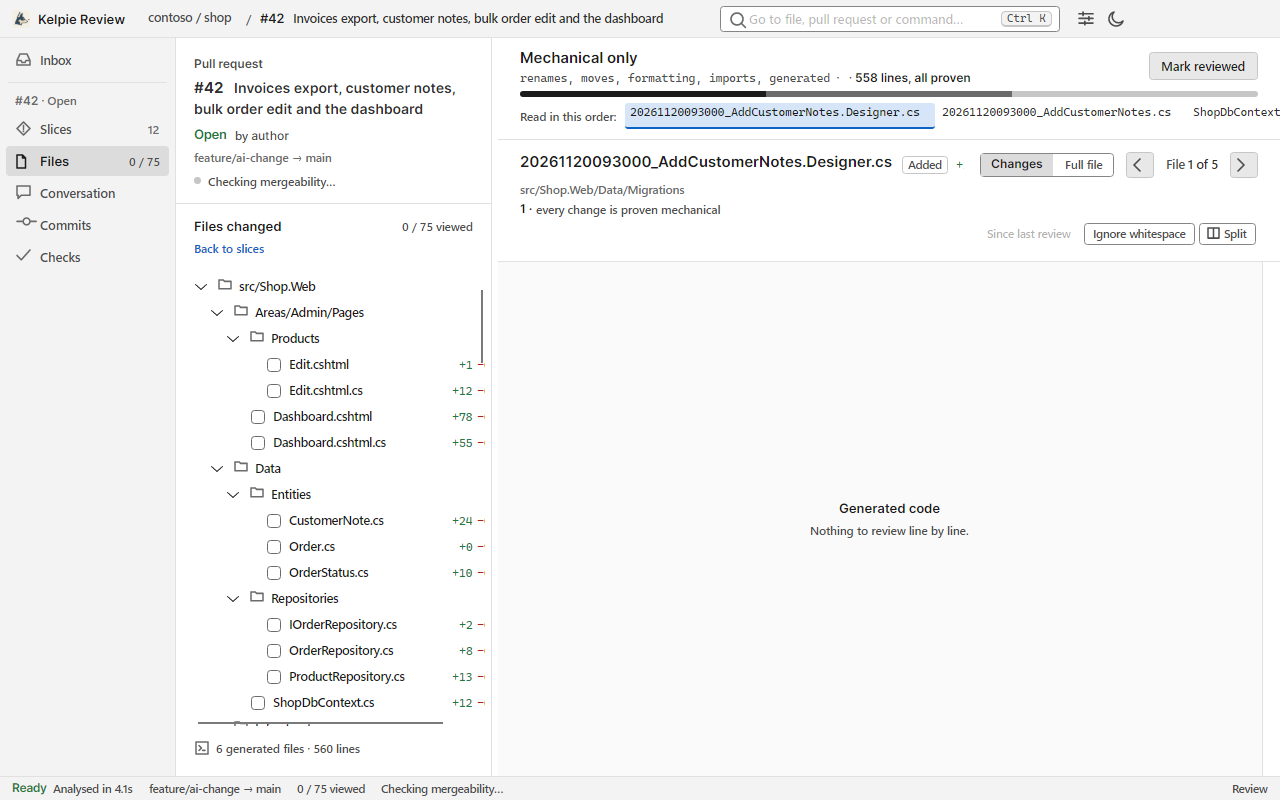
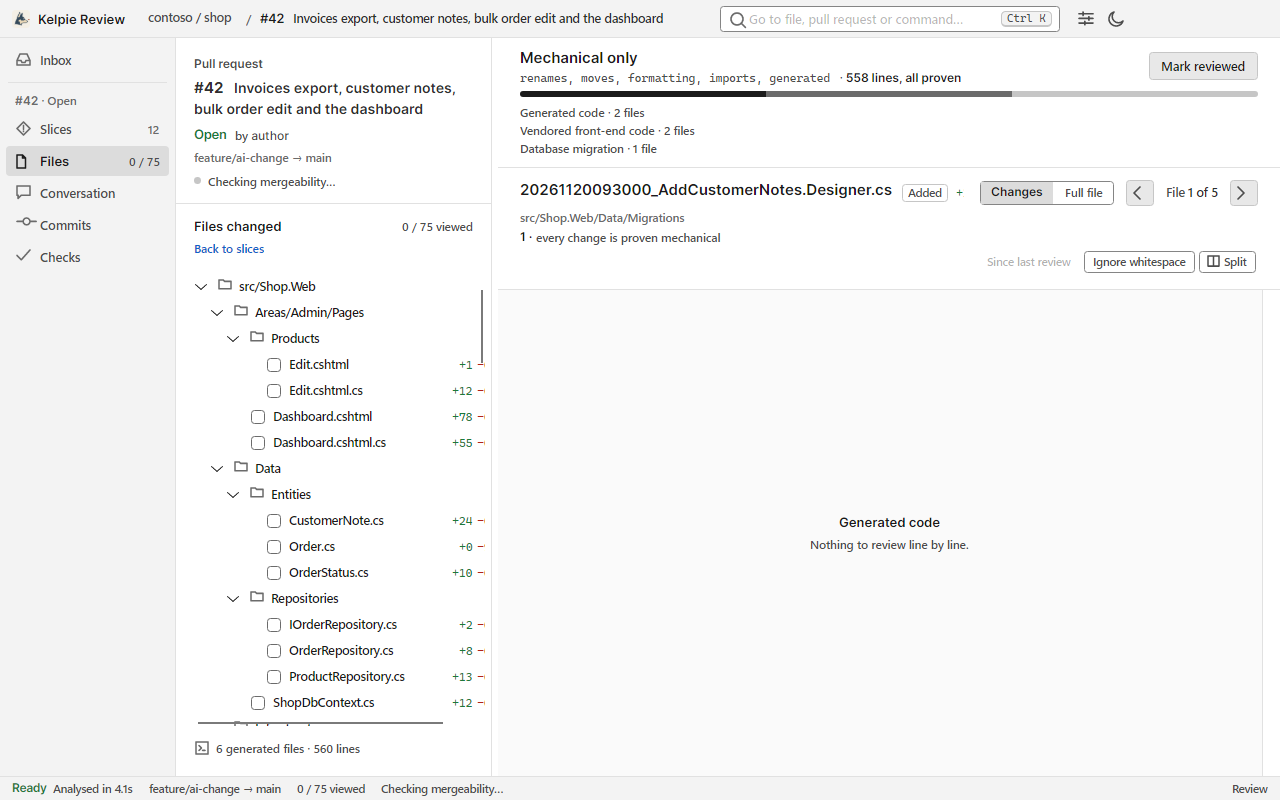
Mechanical only lists its groups; andrew-crm#58 replay; screenshots refreshed
The Mechanical only slice now shows its groups from the triage ("Renamed
`X`→`Y` · 12 sites", "Database migration · 1 file") in place of the
reading order. A slice caption with no handler sections no longer shows a
stray " · ". LUMEN_SLICE_REPLAY (opt-in, local git only) opens a branch
through the engine and prints its slices, flags and timings; it was used
to replay andrew-crm#58.

Changed region(s): [[0.4062, 0.0938, 1.0, 0.3438], [0.625, 0.625, 0.75, 0.6875], [0.9375, 0.125, 1.0, 0.1562]]

diff --git a/src/Lumen.App/ViewModels/PullRequestViewModel.Overhaul.cs b/src/Lumen.App/ViewModels/PullRequestViewModel.Overhaul.cs
@@ -45,10 +45,38 @@ public sealed partial class PullRequestViewModel
     public string ReviewKindLabel => IsLocal ? "Local branch" : "Pull request";
 
     [ObservableProperty]
-    [NotifyPropertyChangedFor(nameof(HasCurrentSlice), nameof(CurrentSliceFlags), nameof(CurrentSliceFlagCount))]
+    [NotifyPropertyChangedFor(nameof(HasCurrentSlice), nameof(CurrentSliceFlags), nameof(CurrentSliceFlagCount), nameof(IsMechanicalSlice), nameof(MechanicalGroups))]
     public partial SliceViewModel? CurrentSlice { get; private set; }
 
     public bool HasCurrentSlice => CurrentSlice is not null;
+
+    public bool IsMechanicalSlice => CurrentSlice?.IsMechanicalOnly == true;
+
+    /// <summary>
+    /// "Mechanical only" as groups, not files (docs/overhaul.md, UI): "Renamed `GetOrder`→`GetOrderAsync` · 12 sites",
+    /// "Database migration · 3 files". Largest first.
+    /// </summary>
+    public IReadOnlyList<string> MechanicalGroups
+    {
+        get
+        {
+            if (CurrentSlice is not { IsMechanicalOnly: true } slice || Triage is not { } triage)
+            {
+                return [];
+            }
+
+            var paths = slice.Files.Select(f => f.Path).ToHashSet(StringComparer.Ordinal);
+            var hunks = triage.Hunks.Where(h => paths.Contains(h.Path) && h.Fold == FoldKind.Mechanical).ToList();
+            var groups = triage.Groups.ToDictionary(g => g.Id, StringComparer.Ordinal);
+            var grouped = hunks.Where(h => h.GroupId.Length > 0 && groups.ContainsKey(h.GroupId)).GroupBy(h => h.GroupId)
+                .Select(g => (Lines: g.Sum(h => h.ChangedLines), Text: string.Create(CultureInfo.InvariantCulture,
+                    $"{groups[g.Key].Title} · {groups[g.Key].MemberCount} site{(groups[g.Key].MemberCount == 1 ? "" : "s")}")));
+            var rest = hunks.Where(h => h.GroupId.Length == 0 || !groups.ContainsKey(h.GroupId)).GroupBy(h => h.Reasons.FirstOrDefault() ?? "Mechanical")
+                .Select(g => (Lines: g.Sum(h => h.ChangedLines), Text: string.Create(CultureInfo.InvariantCulture,
+                    $"{g.Key} · {g.Select(h => h.Path).Distinct().Count()} file{(g.Select(h => h.Path).Distinct().Count() == 1 ? "" : "s")}")));
+            return [.. grouped.Concat(rest).OrderByDescending(g => g.Lines).Select(g => g.Text)];
+        }
+    }
 
     public MarkReviewedViewModel MarkReviewed { get; } = new();
 

diff --git a/tests/Lumen.Engine.Tests/EngineLocalBranchTests.cs b/tests/Lumen.Engine.Tests/EngineLocalBranchTests.cs
@@ -159,6 +159,33 @@ public sealed class EngineLocalBranchTests : IAsyncLifetime
 
     private TimeSpan? SnapshotAt { get; set; }
 
+    /// <summary>
+    /// Opt-in, local git only: LUMEN_SLICE_REPLAY=&lt;clone&gt;|&lt;base&gt;|&lt;head&gt; opens that branch through the engine and
+    /// prints its slices, flags and timings (used for andrew-crm#58 in docs/overhaul.md).
+    /// </summary>
+    [Fact]
+    public async Task ReplaysALocalBranchAndPrintsItsSlices()
+    {
+        if (Environment.GetEnvironmentVariable("LUMEN_SLICE_REPLAY")?.Split('|') is not [var clone, var baseRef, var headRef])
+        {
+            return;
+        }
+
+        var stopwatch = System.Diagnostics.Stopwatch.StartNew();
+        var events = await WatchAsync(new LocalBranchRef { ClonePath = clone, BaseRef = baseRef, HeadRef = headRef }, e => SnapshotAt ??= stopwatch.Elapsed);
+        Assert.DoesNotContain(events, e => e.Failed is not null);
+        var ready = events.Single(e => e.SlicesReady is not null).SlicesReady;
+        var flags = events.Single(e => e.FlagsReady is not null).FlagsReady.Flags;
+        var files = events.First(e => e.Snapshot is not null).Snapshot.Files.Count;
+        Console.WriteLine($"REPLAY {files} files; files after {SnapshotAt!.Value.TotalMilliseconds:N0} ms, done after {stopwatch.ElapsedMilliseconds:N0} ms (slicer {ready.DurationMs} ms); fell back: {ready.FellBack} {ready.FallbackReason}");
+        foreach (var slice in ready.Slices)
+        {
+            Console.WriteLine($"REPLAY   {slice.Kind,-28} {slice.Title,-40} {slice.Files.Count,3} files");
+        }
+
+        Console.WriteLine($"REPLAY flags: {string.Join(", ", flags.GroupBy(f => f.Kind).Select(g => $"{g.Key} {g.Count()}"))}");
+    }
+
     [Fact]
     public async Task TheFixturesPlantedFlagsArriveAndNoFoldHidesOne()
     {

diff --git a/tests/Lumen.App.Tests/SliceTests.cs b/tests/Lumen.App.Tests/SliceTests.cs
@@ -190,6 +190,30 @@ public sealed class SliceTests
     }
 
     [AvaloniaFact]
+    public async Task MechanicalOnlyListsItsGroupsNotItsFiles()
+    {
+        var pr = await Fixture.LoadAsync(Fixture.CreateRefactorSource());
+        try
+        {
+            var group = pr.Triage!.Groups.First(g => pr.Triage.Hunks.Any(h => h.GroupId == g.Id && h.Fold == FoldKind.Mechanical));
+            var members = pr.Triage.Hunks.Where(h => h.GroupId == group.Id && h.Fold == FoldKind.Mechanical).Select(h => h.Path).Distinct().ToList();
+            var ready = new SlicesReady();
+            var slice = new Slice { Id = "m", Title = "Mechanical only", Kind = SliceKind.MechanicalOnly };
+            slice.Files.AddRange(members.Select((p, i) => new SliceFile { Path = p, Order = i, Why = "every change is proven mechanical" }));
+            ready.Slices.Add(slice);
+            await pr.ApplyAsync(new PullRequestEvent { SlicesReady = ready });
+            await pr.SelectSliceAsync(pr.Slices.Single());
+
+            Assert.True(pr.IsMechanicalSlice);
+            Assert.Contains($"{group.Title} · {group.MemberCount} site{(group.MemberCount == 1 ? "" : "s")}", pr.MechanicalGroups);
+        }
+        finally
+        {
+            await pr.DisposeAsync();
+        }
+    }
+
+    [AvaloniaFact]
     public async Task AFlagCardMarkedNewRendersWithoutWritingItsLabelBack()
     {
         // Run.Text binds two-way by default; with a StringFormat it once wrote "  · New" back into the label, forever.

diff --git a/src/Lumen.App/ViewModels/SliceViewModels.cs b/src/Lumen.App/ViewModels/SliceViewModels.cs
@@ -139,6 +139,9 @@ public sealed partial class SliceViewModel : ObservableObject
     /// <summary>"handlers OnGetAsync, OnPostSaveAsync".</summary>
     public string SectionsLabel => HasSections ? "handlers " + string.Join(", ", Model.Sections) : "";
 
+    /// <summary>" · handlers Page, OnPostSave" after the caption, or nothing.</summary>
+    public string SectionsSuffix => HasSections ? " · " + SectionsLabel : "";
+
     public string SeedPath => Model.SeedPath;
 
     public string FilesLabel => Files.Count == 1 ? "1 file" : string.Create(CultureInfo.InvariantCulture, $"{Files.Count} files");
